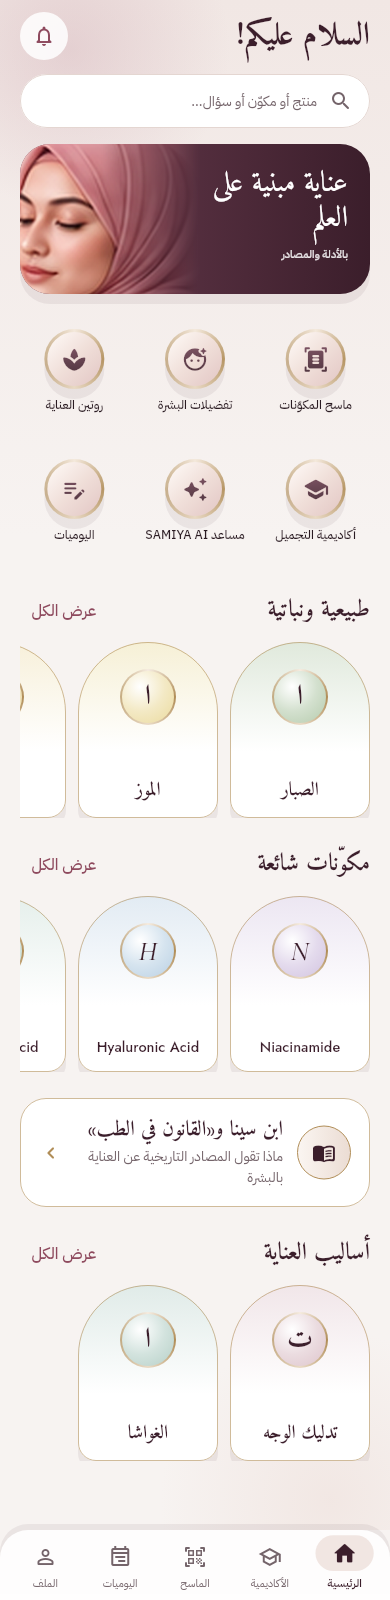
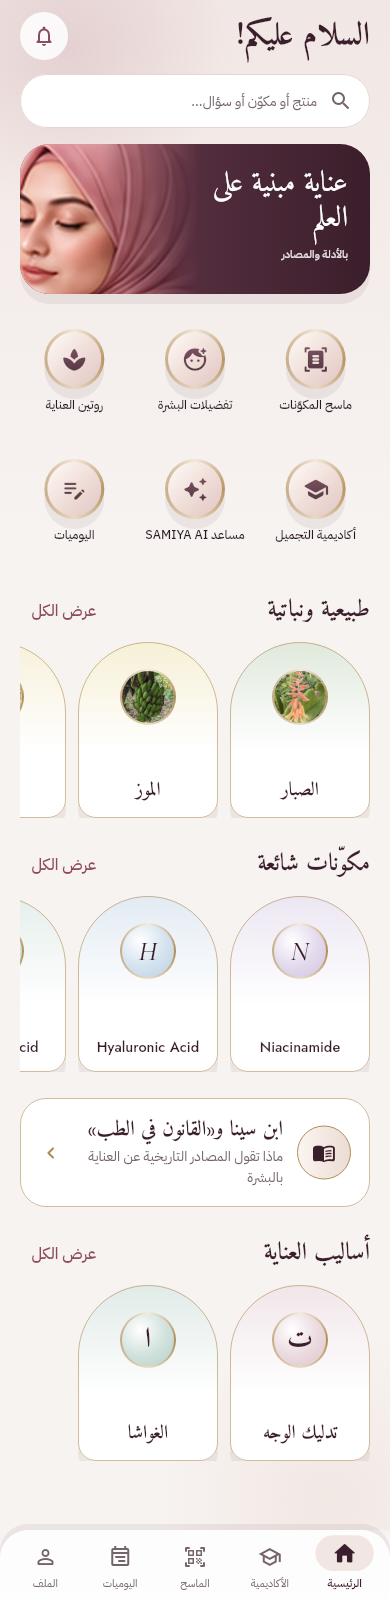
fix(ux): skaner natijasida tushunarli nom va foto; promo ekranlar testi; STATUS yangilandi
Claude-Session: https://claude.ai/code/session_01DHMppTHpVgUVFN7o5nWH6w

Changed region(s): [[0.3077, 0.4062, 0.4615, 0.4688], [0.7077, 0.4062, 0.8308, 0.4688]]

diff --git a/mobile/test/promo/promo_test.dart b/mobile/test/promo/promo_test.dart
@@ -1,0 +1,84 @@
+@Tags(['promo'])
+library;
+
+import 'dart:io';
+import 'dart:ui' as ui;
+
+import 'package:flutter/material.dart';
+import 'package:flutter/rendering.dart';
+import 'package:flutter_test/flutter_test.dart';
+import 'package:samiya_beauty_lab/app/app.dart';
+import 'package:samiya_beauty_lab/app/app_state.dart';
+import 'package:samiya_beauty_lab/data/personal_store.dart';
+import 'package:samiya_beauty_lab/features/scanner/ingredient_models.dart';
+import 'package:samiya_beauty_lab/ui/botanical_assets.dart';
+import 'package:shared_preferences/shared_preferences.dart';
+
+import '../support/fonts.dart';
+
+/// Reklama roligi uchun haqiqiy ekranlar (namuna ma'lumotlar bilan): ../qa/promo/<til>_<n>.png
+void main() {
+  setUpAll(loadAppFonts);
+  setUp(() => SharedPreferences.setMockInitialValues({}));
+
+  final steps = {
+    'uz': ['Yumshoq yuvish vositasi', 'Namlantiruvchi krem', 'Quyoshdan himoya'],
+    'ru': ['Мягкое очищение', 'Увлажняющий крем', 'Защита от солнца'],
+    'en': ['Gentle cleanser', 'Moisturiser', 'Sunscreen'],
+    'ar': ['غسول لطيف', 'كريم مرطب', 'واقي الشمس'],
+  };
+  final scenes = <String, Future<void> Function(WidgetTester)?>{
+    '1': null,
+    '2': null,
+    '3': null,
+    '4': (t) async {
+      await t.enterText(find.byKey(const Key('manual-input')), 'Aqua, Glycerin, Niacinamide, Aloe Barbadensis Leaf Juice, Parfum');
+      await t.pump();
+      await t.tap(find.byKey(const Key('manual-analyze')));
+      await t.pumpAndSettle();
+    },
+    '5': null,
+    '6': null,
+  };
+  final routes = {'1': '/welcome', '2': '/home', '3': '/scanner/ingredient/banana', '4': '/scanner/manual', '5': '/scanner/ibn-sina', '6': '/home/routine'};
+
+  for (final lang in ['uz', 'ru', 'en', 'ar']) {
+    for (final e in scenes.entries) {
+      testWidgets('promo $lang ${e.key}', (t) async {
+        t.view.physicalSize = const Size(1170, 2532); // 390x844 @3x
+        t.view.devicePixelRatio = 3;
+        addTearDown(t.view.reset);
+        final repo = IngredientRepository.fromJson(File('assets/content/ingredients.json').readAsStringSync());
+        final p = PersonalStore(persist: false, clock: () => DateTime(2026, 11, 1, 8));
+        await p.addAvoid('Parfum');
+        for (final s in steps[lang]!) {
+          await p.addStep('am', s);
+        }
+        await p.toggleDone(p.routine['am']!.first.id);
+        final key = GlobalKey();
+        await t.pumpWidget(RepaintBoundary(
+          key: key,
+          child: SamiyaApp(key: UniqueKey(), state: AppState(locale: Locale(lang), onboarded: true, ingredients: repo, personal: p), initialLocation: routes[e.key]!),
+        ));
+        await t.runAsync(() async {
+          final ctx = t.element(find.byType(MaterialApp));
+          for (final a in ['hero_welcome', 'ob2_routine', 'logo_icon']) {
+            await precacheImage(AssetImage('assets/images/$a.png'), ctx);
+          }
+          for (final b in photoSlugs) {
+            await precacheImage(AssetImage('assets/photos/$b.jpg'), ctx);
+          }
+        });
+        await t.pump(const Duration(milliseconds: 1200));
+        if (e.value != null) await e.value!(t);
+        await t.pump(const Duration(milliseconds: 600));
+        await t.runAsync(() async {
+          final boundary = key.currentContext!.findRenderObject()! as RenderRepaintBoundary;
+          final image = await boundary.toImage(pixelRatio: 1);
+          final data = await image.toByteData(format: ui.ImageByteFormat.png);
+          File('../qa/promo/${lang}_${e.key}.png')..createSync(recursive: true)..writeAsBytesSync(data!.buffer.asUint8List());
+        });
+      });
+    }
+  }
+}

diff --git a/mobile/lib/features/scanner/result_page.dart b/mobile/lib/features/scanner/result_page.dart
@@ -6,6 +6,7 @@ import '../../app/app_state.dart';
 import '../../app/theme.dart';
 import '../../l10n/app_localizations.dart';
 import '../../ui/widgets.dart';
+import '../../ui/ingredient_palette.dart';
 import 'analysis.dart';
 
 /// 20 Tahlil natijasi. Faqat "bazada bor/yo'q": xavfsizlik bahosi, foiz yoki "sizga mos" xulosasi YO'Q.
@@ -65,6 +66,9 @@ class ResultPage extends StatelessWidget {
                   _FoundCard(
                     key: Key('result-card-${item.ingredient!.slug}'),
                     position: item.position,
+                    slug: item.ingredient!.slug,
+                    name: item.ingredient!.nameFor(lang),
+                    friendly: item.ingredient!.hasFriendlyName,
                     inci: item.ingredient!.inci,
                     summary: item.ingredient!.summaryFor(lang),
                     onTap: () => context.safePush('/scanner/ingredient/${item.ingredient!.slug}'),
@@ -122,8 +126,11 @@ class _Stat extends StatelessWidget {
 }
 
 class _FoundCard extends StatelessWidget {
-  const _FoundCard({super.key, required this.position, required this.inci, required this.summary, required this.onTap});
+  const _FoundCard({super.key, required this.position, required this.slug, required this.name, required this.friendly, required this.inci, required this.summary, required this.onTap});
   final int position;
+  final String slug;
+  final String name;
+  final bool friendly;
   final String inci;
   final String summary;
   final VoidCallback onTap;
@@ -133,7 +140,7 @@ class _FoundCard extends StatelessWidget {
     final t = Theme.of(context).textTheme;
     return Semantics(
       button: true,
-      label: inci,
+      label: name,
       child: Material(
         color: Colors.white,
         borderRadius: BorderRadius.circular(24),
@@ -145,17 +152,15 @@ class _FoundCard extends StatelessWidget {
             decoration: BoxDecoration(borderRadius: BorderRadius.circular(24), border: Border.all(color: SamiyaColors.border), boxShadow: SamiyaShadows.soft),
             child: ExcludeSemantics(
               child: Row(crossAxisAlignment: CrossAxisAlignment.start, children: [
-                Container(
-                  width: 36,
-                  height: 36,
-                  alignment: Alignment.center,
-                  decoration: const BoxDecoration(color: SamiyaColors.blush, shape: BoxShape.circle),
-                  child: Text('$position', style: const TextStyle(fontFamily: 'Jost', fontWeight: FontWeight.w700, color: SamiyaColors.rose)),
-                ),
+                IngredientMonogram(slug: slug, name: name, size: 48),
                 const SizedBox(width: 14),
                 Expanded(
                   child: Column(crossAxisAlignment: CrossAxisAlignment.start, children: [
-                    Text(inci, textDirection: TextDirection.ltr, style: t.titleMedium?.copyWith(fontSize: 18, fontWeight: FontWeight.w700, color: SamiyaColors.heading)),
+                    Text(name,
+                        textDirection: friendly ? null : TextDirection.ltr,
+                        style: t.titleMedium?.copyWith(fontSize: 18, fontWeight: FontWeight.w600, color: SamiyaColors.heading)),
+                    Text(friendly ? '$inci · #$position' : '#$position',
+                        textDirection: TextDirection.ltr, style: t.bodyMedium?.copyWith(fontSize: 12, fontWeight: FontWeight.w500)),
                     const SizedBox(height: 4),
                     Text(summary, maxLines: 3, overflow: TextOverflow.ellipsis, style: t.bodyMedium),
                   ]),

diff --git a/docs/STATUS.md b/docs/STATUS.md
@@ -127,5 +127,13 @@ Reliz oldidan: 12+ tester (Play shaxsiy akkaunt), maxfiylik siyosati URL, hisobn
 - **Testlar:** backend 61, ilova 195 (qizil->yashil). Jonli backend yangilandi (migratsiyalar 0002, 0003); jonli admin amallari haqiqiy Google kirishi bilan telefonda tasdiqlanishi kerak (TEKSHIRILMAGAN).
 - **iOS TestFlight:** kalit muammosi hal qilindi (Admin rolli kalit "SAMIYA CI Admin"), birinchi build muvaffaqiyatli yuklandi.
 
+## Premium dizayn va yangi bo'limlar (2026-10-31, kechasi)
+- **Dizayn "Atelier":** chinni fon, ud-olxo'ri (#3B1E2B), Toif atirguli yuzalar, shampan oltini (#B08D57); Cormorant Garamond + Jost, arabcha Amiri/IBM Plex. Ravoq kartochkalar, oltin halqali belgilar, animatsiyali pastki menyu.
+- **Rasmlar:** tabiiy ingredientlar uchun iNaturalist CC0 fotosuratlari (`mobile/assets/photos/CREDITS.json`), boshqalarida rangli monogramma.
+- **Kontent:** 28 kartochka (11 faol, 13 tabiiy, 2 usul, 2 ogohlantirish), 4 tilda tushunarli nomlar; an'anaviy qo'llanish bloki va Ibn Sino sahifasi ("ilmiy dalil emas" izohi bilan). 185 PMID onlayn tekshirildi.
+- **Yangi (faqat qurilmada):** Teri afzalliklari ("chetlab o'tish" ro'yxati skanerda ogohlantiradi), Parvarish rejasi, Kundalik; kamera skaneri (ML Kit).
+- **Reklama roligi:** 4 tilda (edge-tts: Madina, Svetlana, Sonia, Fatima), haqiqiy ekranlardan.
+- **Hali yo'q:** Akademiya (kosmetolog tekshiruvi kerak), SAMIYA AI (GEMINI kaliti), Pro to'lov, reklama bo'limi (90 kun o'chiq), maxfiylik siyosati (email va ism kerak), iOS'da Google kirishi (yangi GoogleService-Info.plist kerak). Yangi buildlar egasining tasdig'ini kutmoqda.
+
 ## Keyingi qadamlar
 1. Phase 1: dizayn tizimi + 1-10 ekranlar (4 tilda, RTL) · 2. Kontent pilot: 5 ingredient, 4 tilda, manbalar bilan · 3. Phase 2: Firebase auth + Worker token tekshiruvi.
